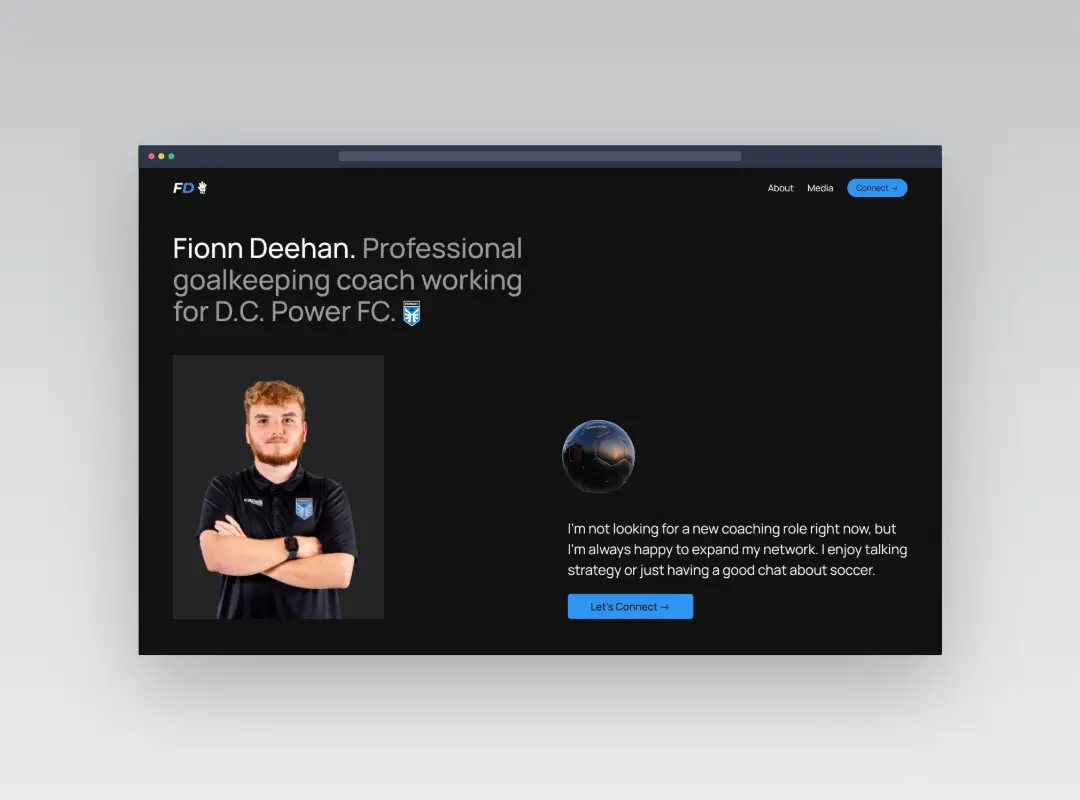
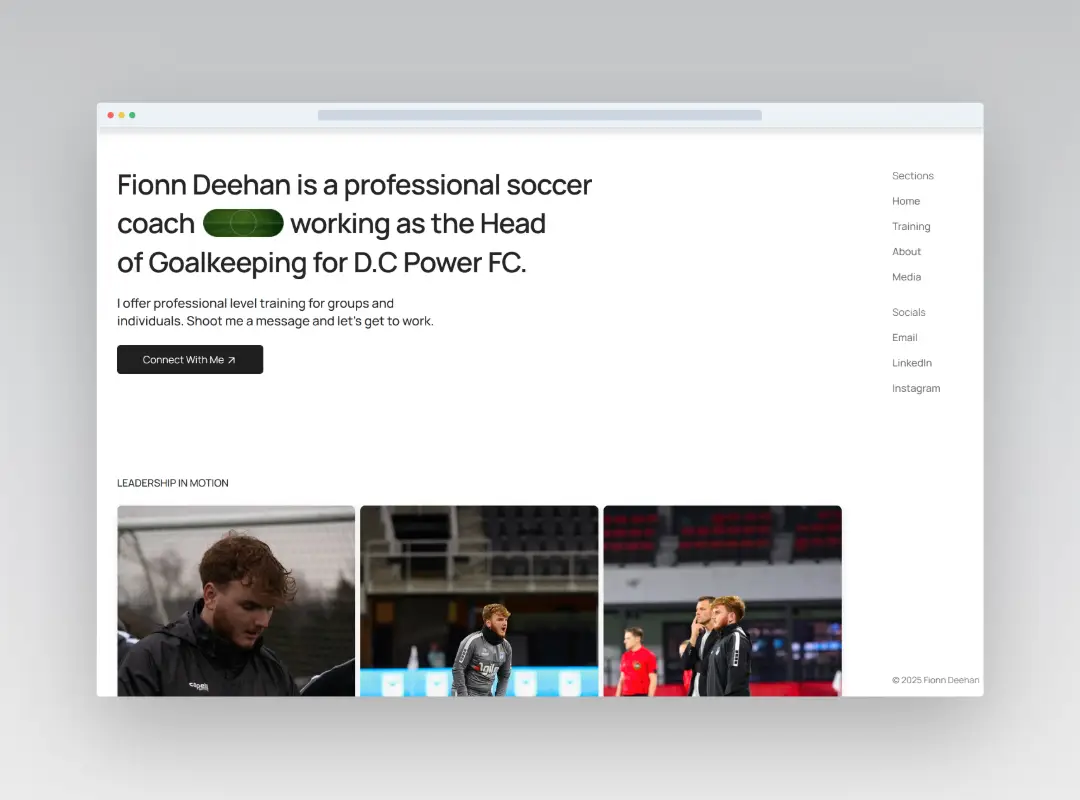
updated project thumbnail

diff --git a/src/app/components/Projects.tsx b/src/app/components/Projects.tsx
@@ -7,7 +7,17 @@ type Project = {
   githubLink?: string;
 };
 
+
+
 const projects: Project[] = [
+  // {
+  //   src: "/projects/faciligator.webp",
+  //   title: "Custom Content Management System + Club Website",
+  //   tech: ["Next.js", "TypeScript","Figma", "Firebase", "Tailwind"],
+  //   desc: " Software and website for the Society of PC Building that enables admins to update website content without code.",
+  //   liveLink: "https://www.spcbatuf.org/",
+  //   githubLink: "https://github.com/PCBuilding/SPCBWebsite",
+  // },
   {
     src: "/projects/spcb.webp",
     title: "Custom Content Management System + Club Website",
@@ -25,7 +35,22 @@ const projects: Project[] = [
     githubLink: "https://github.com/colemmorgan/CodeCode",
   },
   {
-    src: "/projects/dsc.webp",
+    src: "/projects/fd.webp",
+    title: "Professional Coaching Site",
+    tech: ["Nextjs", "TypeScript", "Figma", "Tailwind"],
+    desc: "Freelance design/development project I created for a client to tell a story about his career and create a personal brand.",
+    liveLink: "https://fionn.pro/",
+  },
+  // {
+  //   src: "/projects/sfg2.webp",
+  //   title: "Student Finance Group",
+  //   tech: ["React", "Recoil", "Docker", "Firebase", "Tailwind"],
+  //   desc: "A coding question platform with real-time grading and tracking through Firebase and containerized code execution.",
+  //   liveLink: "https://code-code-theta.vercel.app/",
+  //   githubLink: "https://github.com/colemmorgan/CodeCode",
+  // },
+  {
+    src: "/projects/dsc2.webp",
     title: "Google DSC Landing Page",
     tech: ["React", "TypeScript", "Figma", "Tailwind"],
     desc: "Developed and designed a modern landing page for a student organization with micro-interactions using React & Framer Motion.",
@@ -33,13 +58,7 @@ const projects: Project[] = [
     githubLink: "https://github.com/colemmorgan/ufdsc",
   },
 
-  {
-    src: "/projects/fd.webp",
-    title: "Professional Coaching Site",
-    tech: ["Nextjs", "TypeScript", "Figma", "Tailwind"],
-    desc: "Freelance design/development project I created for a client to tell a story about his career and create a personal brand.",
-    liveLink: "https://fionn.pro/",
-  },
+ 
   {
     src: "/projects/fufillment.webp",
     title: "Medical Microcredentialing App",
